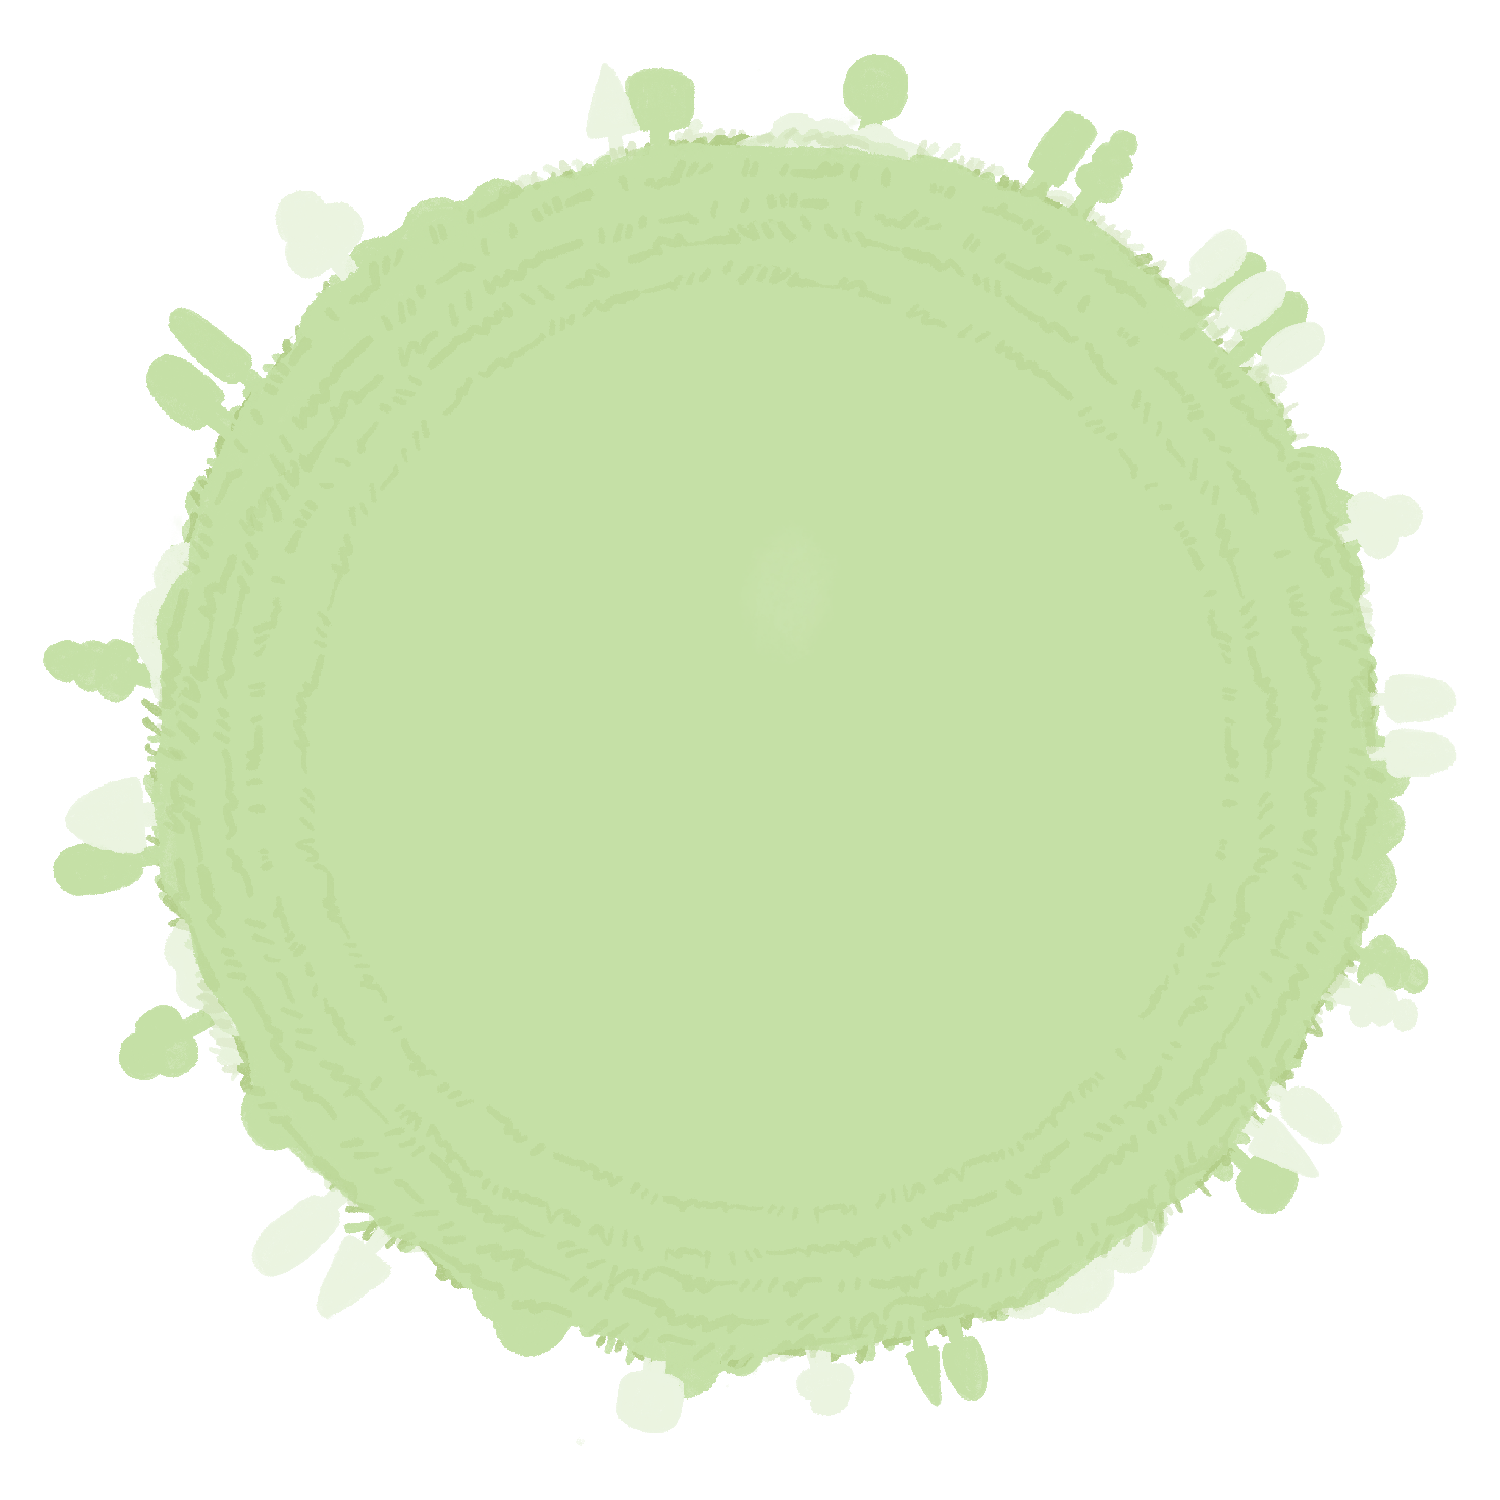
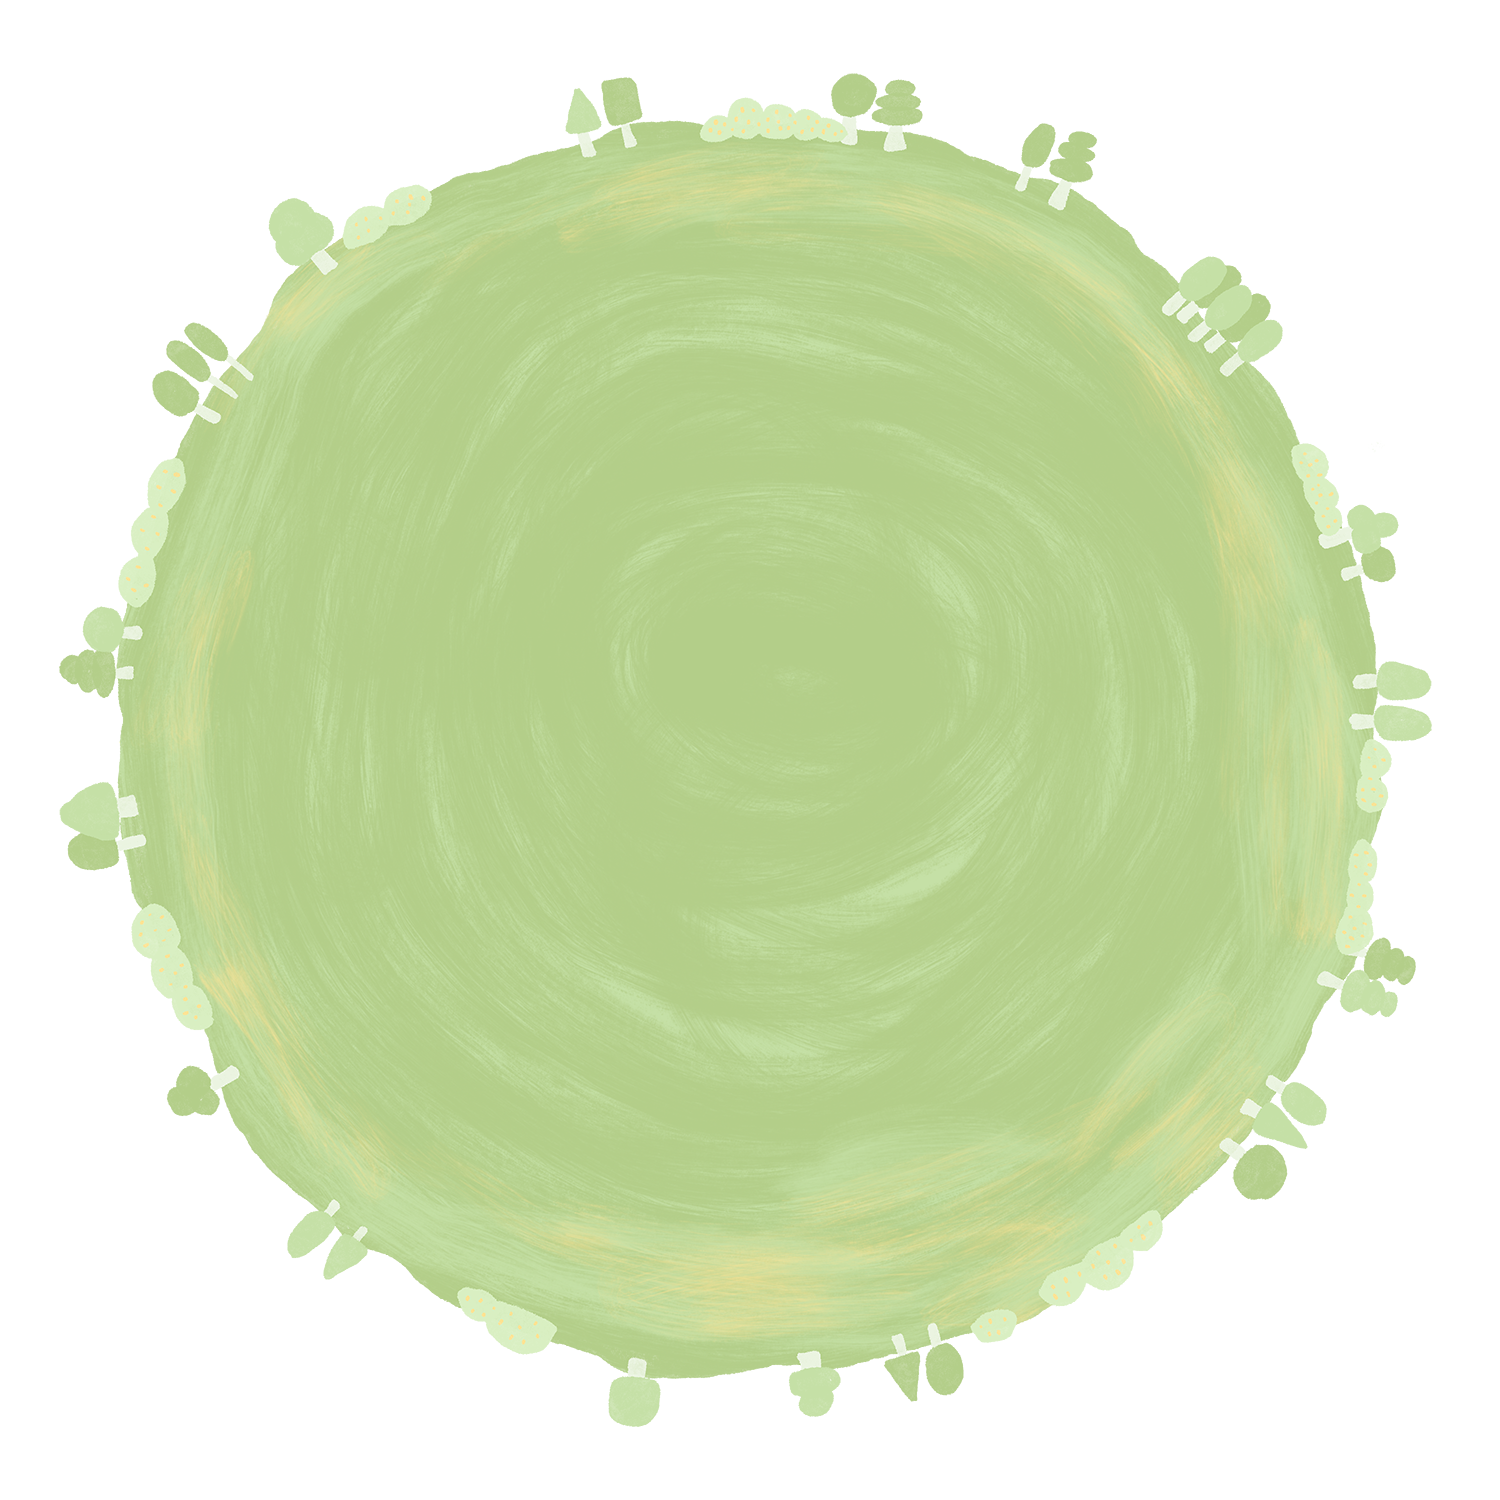
style: 統一頁面背景與 Footer

diff --git a/frontend/src/components/common/AppFooter.vue b/frontend/src/components/common/AppFooter.vue
@@ -24,7 +24,14 @@
         decoding="async"
       />
 
-      <p class="app-footer__copyright">© 2026 PHEIDI THE RUNNER</p>
+      <div class="app-footer__signature">
+        <span
+          class="app-footer__tagline"
+          aria-hidden="true"
+        ></span>
+
+        <p class="app-footer__copyright">© 2026 PHEIDI THE RUNNER</p>
+      </div>
     </div>
   </footer>
 </template>
@@ -38,7 +45,6 @@ import grasslandUrl from '@/assets/images/grassland.png'
   width: 100%;
   overflow: hidden;
   color: var(--color-secondary-light);
-  background: var(--color-secondary-soft);
 }
 
 .app-footer__scene {
@@ -76,7 +82,9 @@ import grasslandUrl from '@/assets/images/grassland.png'
 
 .app-footer__runner {
   position: absolute;
-  top: calc(clamp(9.75rem, 13.08vw, 11.75rem) - var(--footer-scene-trim));
+  top: calc(
+    clamp(9.75rem, 13.08vw, 11.75rem) - var(--footer-scene-trim) - var(--space-4)
+  );
   left: 50%;
   display: block;
   width: var(--footer-runner-size);
@@ -86,19 +94,38 @@ import grasslandUrl from '@/assets/images/grassland.png'
 }
 
 .app-footer__copyright {
-  position: absolute;
-  top: calc(clamp(16.75rem, 23.33vw, 21rem) - var(--footer-scene-trim));
-  left: 50%;
-  z-index: 1;
-  width: calc(100% - var(--space-6));
+  position: static;
+  width: auto;
   margin: 0;
-  padding: 0 var(--space-3);
+  padding: 0;
 
-  color: var(--color-dark);
+  color: var(--color-surface);
   text-align: center;
   letter-spacing: var(--letter-spacing-wide);
   font-size: var(--font-size-sm);
-  transform: translateX(-50%);
+  transform: none;
+}
+
+.app-footer__signature {
+  position: absolute;
+  right: 0;
+  bottom: var(--space-4);
+  left: 0;
+  z-index: 1;
+  display: flex;
+  flex-direction: column;
+  align-items: center;
+  gap: var(--space-2);
+}
+
+.app-footer__tagline {
+  display: block;
+  width: clamp(6.5rem, 8vw, 7.5rem);
+  aspect-ratio: 142 / 80;
+  background-color: var(--color-primary-pale);
+  mask: url('/tagline.svg') center / contain no-repeat;
+  transform: translateY(calc(-1 * var(--space-4)));
+  -webkit-mask: url('/tagline.svg') center / contain no-repeat;
 }
 
 @media (max-width: 480px) {

diff --git a/frontend/src/views/HomePage.vue b/frontend/src/views/HomePage.vue
@@ -2,6 +2,7 @@
 import { Cloudy, Snowflake, Sun, SunMedium, ThermometerSun, Wind } from '@lucide/vue'
 import { computed, onMounted, onUnmounted, ref, type Component } from 'vue'
 
+import Cloudscape from '@/components/home/Cloudscape.vue'
 import WeatherExpansionHero from '@/components/home/WeatherExpansionHero.vue'
 import RunnerProgressCard from '@/components/progress/RunnerProgressCard.vue'
 import { useRunnerProgress } from '@/composables/useRunnerProgress'
@@ -200,7 +201,10 @@ onUnmounted(() => {
 
 <template>
   <main class="home-page">
+    <Cloudscape class="home-page__background" />
+
     <WeatherExpansionHero
+      class="home-page__hero"
       :title="weatherPresentation.title"
       :tone="weatherPresentation.tone"
       :main-icon="weatherPresentation.mainIcon"
@@ -227,16 +231,22 @@ onUnmounted(() => {
 
 <style scoped>
 .home-page {
+  position: relative;
+  isolation: isolate;
   min-height: 100%;
-  background: linear-gradient(
-    180deg,
-    var(--color-primary-pale) 0%,
-    color-mix(in srgb, var(--color-background) 48%, var(--color-primary-pale)) 100dvh,
-    var(--color-primary-pale) calc(22% + 78dvh),
-    color-mix(in srgb, var(--color-primary-pale) 50%, var(--color-secondary-pale)) calc(44% + 56dvh),
-    var(--color-secondary-pale) calc(68% + 32dvh),
-    var(--color-secondary-soft) 100%
-  );
+  background: transparent;
+}
+
+.home-page > .home-page__background {
+  position: fixed;
+  z-index: 0;
+  pointer-events: none;
+}
+
+.home-page__hero,
+.home-progress {
+  position: relative;
+  z-index: 1;
 }
 
 /* 日報與旅程卡片共用水平內距，垂直內距維持各元件原有設定。 */

diff --git a/frontend/src/components/home/WeatherExpansionHero.vue b/frontend/src/components/home/WeatherExpansionHero.vue
@@ -7,7 +7,6 @@ import { computed, onMounted, onUnmounted, ref, watch } from 'vue'
 import AnimatedWeatherIcon from '@/components/icons/AnimatedWeatherIcon.vue'
 import type { CurrentWeather, WeatherForecast } from '@/services/weather'
 import type { WeatherIconVariant } from '@/types/weatherIcon'
-import Cloudscape from '@/components/home/Cloudscape.vue'
 
 interface Props {
   title: string
@@ -314,8 +313,6 @@ onUnmounted(() => {
     }"
     aria-labelledby="weather-hero-title"
   >
-    <Cloudscape />
-
     <div class="weather-hero__stage layout-container">
       <article
         ref="media"
@@ -444,24 +441,7 @@ onUnmounted(() => {
   height: 100dvh;
   min-height: 100dvh;
   overflow: hidden;
-  background-color: var(--color-primary-pale);
-}
-
-.weather-hero::after {
-  position: absolute;
-  right: 0;
-  bottom: 0;
-  left: 0;
-  z-index: 0;
-  height: clamp(var(--space-8), 12vh, 8rem);
-  pointer-events: none;
-  content: '';
-  background: linear-gradient(
-    to bottom,
-    transparent 0%,
-    color-mix(in srgb, var(--color-background) 42%, transparent) 55%,
-    color-mix(in srgb, var(--color-background) 48%, var(--color-primary-pale)) 100%
-  );
+  background: transparent;
 }
 
 .weather-hero.is-interacting {

diff --git a/frontend/src/layouts/MainLayout.vue b/frontend/src/layouts/MainLayout.vue
@@ -31,11 +31,5 @@ const route = useRoute()
 
 .footer-transition {
   height: clamp(var(--space-8), 10vw, calc(var(--space-8) + var(--space-8)));
-  background: linear-gradient(
-    180deg,
-    var(--color-background) 0%,
-    var(--color-secondary-pale) 52%,
-    var(--color-secondary-soft) 100%
-  );
 }
 </style>
